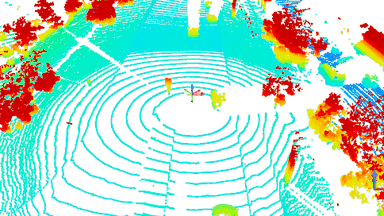
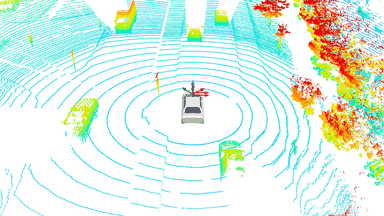
feat(wasm): car model in the self-driving sample; warn phones before the download (#814)
The city-drive sample draws its car: a URL robot model from the asset host
(v1/boreas_vehicle/: Open Robotics' CC0 "Prius Hybrid" as binary glTF, and a
URDF placing it at the recording's applanix frame, 2.1 m above the road and
scaled to the dataset's 4.9 m Lincoln MKZ). The preset spec now requires it.

On a small touch screen the loading page says PlotJuggler is not intended for
mobile devices and fetches the app only on "Continue anyway"; desktops are
unchanged.

Claude-Session: https://claude.ai/code/session_01AFgMz2MN45WyspxhtBZVDL

diff --git a/tests/wasm/deployment.spec.js b/tests/wasm/deployment.spec.js
@@ -2,7 +2,7 @@
 const { createHash } = require('node:crypto');
 const { readFile } = require('node:fs/promises');
 const path = require('node:path');
-const { test, expect } = require('@playwright/test');
+const { test, expect, devices } = require('@playwright/test');
 const {
   expectEntrypoint,
   expectIsolationHeaders,
@@ -159,4 +159,33 @@ test('cold Chromium boot runs the threaded app from the content-addressed packag
   // The production build discovers the samples deployed beside the page.
   await expect.poll(() => responses.get(`${baseUrl}/presets/index.json`)?.['cache-control']).toBe('no-cache');
   expect(pageErrors).toEqual([]);
+});
+
+test('a phone is warned before the download and starts only on Continue anyway', async ({ browser }) => {
+  const context = await browser.newContext({ ...devices['Pixel 7'] });
+  const page = await context.newPage();
+  const pageErrors = [];
+  const wasmRequests = [];
+  page.on('pageerror', error => pageErrors.push(error.stack || error.message));
+  page.on('request', request => {
+    if (request.url().endsWith('.wasm')) {
+      wasmRequests.push(request.url());
+    }
+  });
+  try {
+    await page.goto(`${baseUrl}/`, { waitUntil: 'load' });
+    await expect(page.locator('#mobile')).toBeVisible();
+    await expect(page.locator('#mobile')).toContainText('not intended for mobile');
+    expect(await page.evaluate(() => document.body.dataset.state)).toBe('confirm');
+    // Nothing is fetched while the warning is up.
+    await page.waitForTimeout(1500);
+    expect(wasmRequests).toEqual([]);
+
+    await page.locator('#continue').click();
+    await page.waitForFunction(() => document.body.dataset.state === 'ready', undefined, { timeout: 90_000 });
+    expect(wasmRequests).toEqual([`${baseUrl}/assets/${manifest.bundleId}/plotjuggler4.wasm`]);
+    expect(pageErrors).toEqual([]);
+  } finally {
+    await context.close();
+  }
 });

diff --git a/tests/wasm/presets.spec.js b/tests/wasm/presets.spec.js
@@ -592,12 +592,15 @@ async function expectAnymalViews(run) {
   await expectSceneMoves(run, anymalReady);
 }
 
-// The lidar scan (Cloudini-compressed) restored in the map frame and drawn. Only once the cursor
-// has passed the first scan, a few tens of milliseconds into the clip.
-const cityDriveReady = (_models, dock) => dock.fixed === 'map' && dock.data.points.live === 1
+// The car model (one mesh, from the asset host) drawn, and the lidar scan (Cloudini-compressed)
+// restored in the map frame and drawn. Only once the cursor has passed the first scan, a few tens
+// of milliseconds into the clip.
+const cityDriveReady = (models, dock) => models.robots.live === 1 && models.robots.placeholders === 0
+  && models.robots.draws > 0 && models.robots.status.length === 1 && /\b1\/1 meshes/.test(models.robots.status[0])
+  && dock.fixed === 'map' && dock.data.points.live === 1
   && dock.data.points.compressed === 1 && dock.data.points.rendered > 0;
 
-// The City drive sample's plots, its front camera view, and the lidar scan following the car.
+// The City drive sample's plots, its front camera view, and the car and its lidar scan moving.
 async function expectCityDriveViews(run) {
   await expectPlots(run, [
     ['applanix/odom/twist/twist/linear/y'],

diff --git a/tests/wasm/support/hosted_assets.js b/tests/wasm/support/hosted_assets.js
@@ -12,7 +12,7 @@ const MANIFEST = require('../fixtures/hosted_assets.json');
 const MIRROR = path.resolve(
   process.env.PJ_WASM_ASSETS_MIRROR || path.join(__dirname, '..', '..', '..', 'build-wasm-assets'));
 // The deployment's types (scripts/package_wasm.mjs) plus the hosted samples' own.
-const HOSTED_CONTENT_TYPES = [['.jpg', 'image/jpeg'], ['.urdf', 'application/xml']];
+const HOSTED_CONTENT_TYPES = [['.glb', 'model/gltf-binary'], ['.jpg', 'image/jpeg'], ['.urdf', 'application/xml']];
 
 // Serves the mirror on loopback, with the CORS header the host sends, and returns
 // { origin, route(context, samples_origin), close() }. route() rewrites the asset host to that

diff --git a/resources/wasm-presets/README.md b/resources/wasm-presets/README.md
@@ -12,7 +12,7 @@ for the repository. How to author one, the packaging rules and the hosting notes
 | Sample | Files | Bytes |
 |---|---|---|
 | `anymal/` | layout, thumbnail (recording and robot models hosted, see below) | 32,273 |
-| `city_drive/` | layout, thumbnail (recording hosted, see below) | 62,224 |
+| `city_drive/` | layout, thumbnail (recording and car model hosted, see below) | 54,455 |
 | `signals/` | layout, CSV, thumbnail | 73,150 |
 
 The layouts, the CSV and this file are authored for this repository and fall
@@ -70,8 +70,8 @@ what it did.
 
 | File | Bytes |
 |---|---|
-| `layout.pj4.xml` | 6,256 |
-| `thumbnail.png` | 55,968 |
+| `layout.pj4.xml` | 6,648 |
+| `thumbnail.png` | 47,807 |
 
 The layout loads `v1/boreas/boreas_city_drive.mcap` (261,292,684 bytes, SHA-256
[1 lines of base64/hex data omitted]
@@ -89,10 +89,22 @@ points; x, y, z and intensity, stored ring by ring and Cloudini-compressed at
 citation the dataset asks for. The layout's 3D view starts centred on the car's
 first position and follows it.
 
+The car itself is `v2/boreas_vehicle/` (1.3 MB) on the asset host: `vehicle.urdf`
+places a stand-in model at the recording's `applanix` frame (on the roof, about
+2.1 m above the road by the lidar's ground returns), 0.4 m forward of centred,
+where its hood edge meets the front camera image where the real hood ends; the
+dataset ships no model of its Lincoln MKZ. The
+mesh, `meshes/prius_hybrid.glb`, is Open Robotics' "Prius Hybrid" from
+[Gazebo Fuel](https://fuel.gazebosim.org/1.0/OpenRobotics/models/Prius%20Hybrid)
+(version 3, by Ian Chen) converted to binary glTF with its textures, scaled to
+the MKZ's 4.9 m in the URDF; `PROVENANCE.txt` gives the source hashes and the
+conversion.
+
 Redistribution basis: the Boreas dataset is released under CC BY 4.0 (its
 [AWS Open Data registry entry](https://registry.opendata.aws/boreas)); the
 `README.txt` beside the recording gives the attribution and lists the changes
-made, as the license requires. The recording was made with a converter outside
+made, as the license requires. The car model is released under CC0 1.0
+(`LICENSE` beside it). The recording was made with a converter outside
 this repository from the dataset's files; the topics, rates and processing
 above are what it did.
 

diff --git a/docs/WASM_DEPLOYMENT.md b/docs/WASM_DEPLOYMENT.md
@@ -102,7 +102,9 @@ from the moment the page runs (beside the loader scripts), hands the compiled
 module to Qt's loader (`qt.module`) once the page has loaded, and shows the progress
 against the decoded module size the packager writes into it (the browser counts
 decoded bytes, while `Content-Length` is the compressed size). A failed start
-shows its reason and a Reload button.
+shows its reason and a Reload button. On a small touch screen (coarse pointer,
+shorter screen side under 600 CSS px) the page first says PlotJuggler is not
+intended for mobile devices and fetches nothing until "Continue anyway".
 
 ```text
 build-wasm/deploy/
